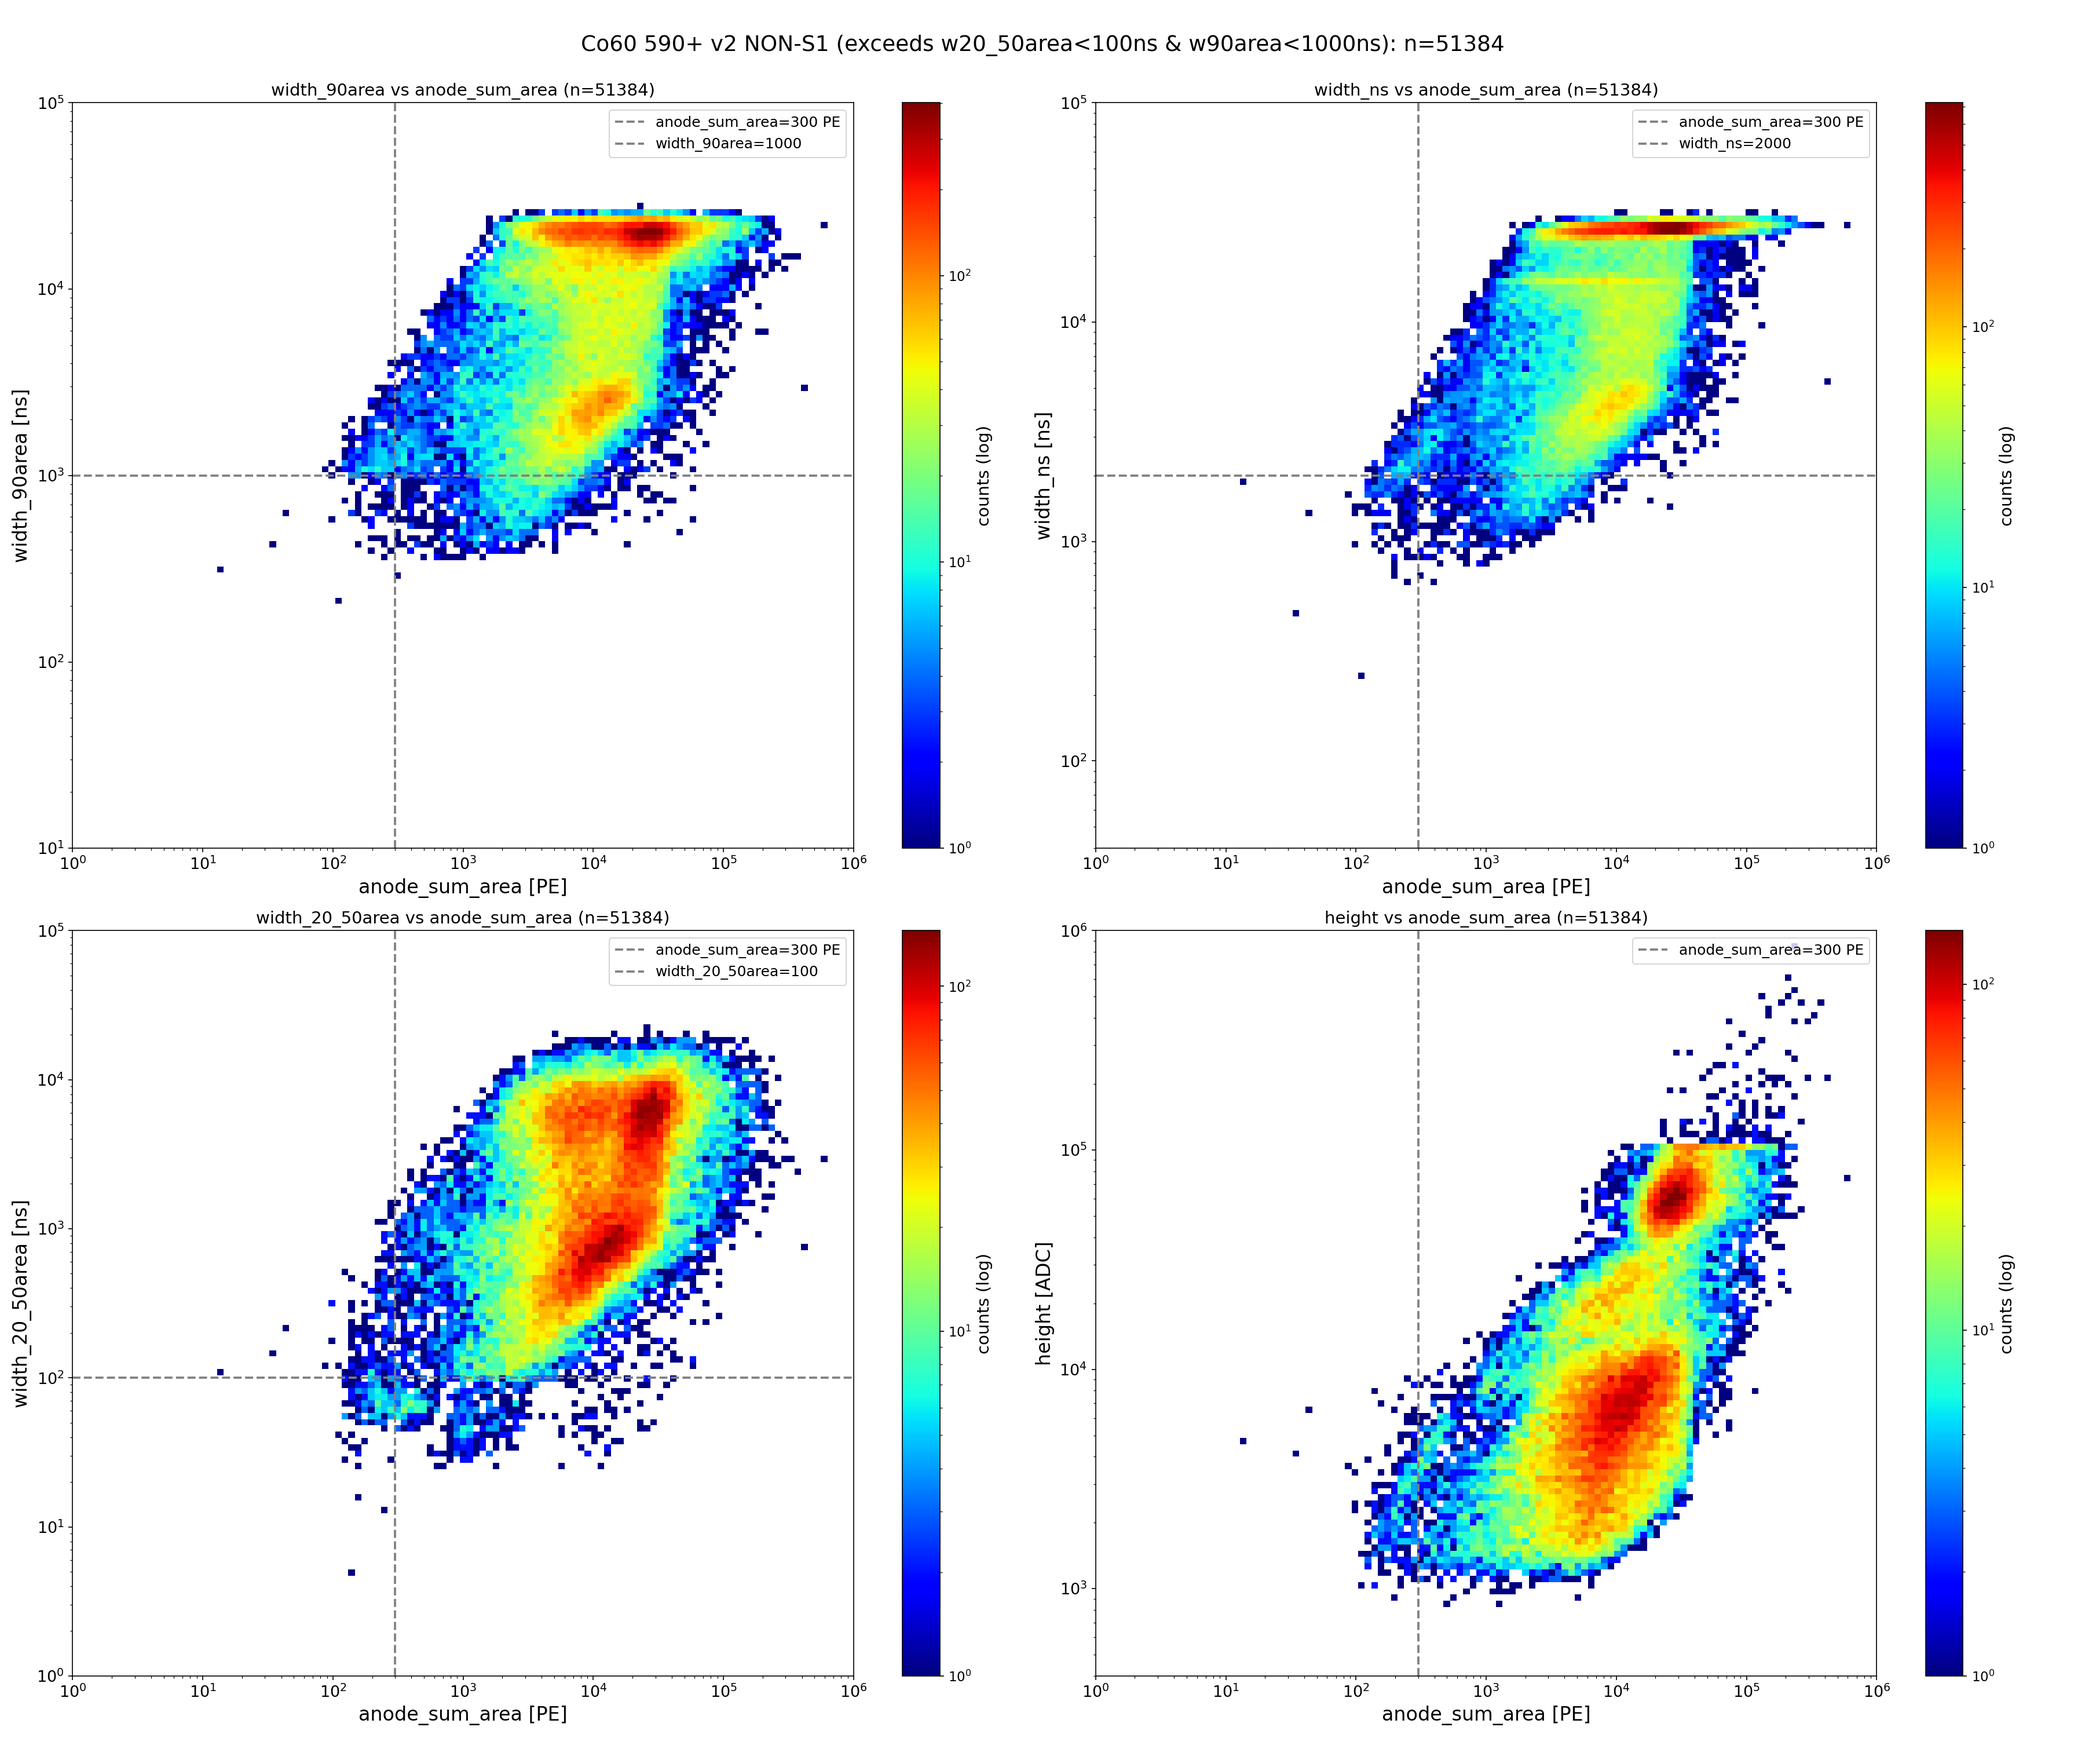
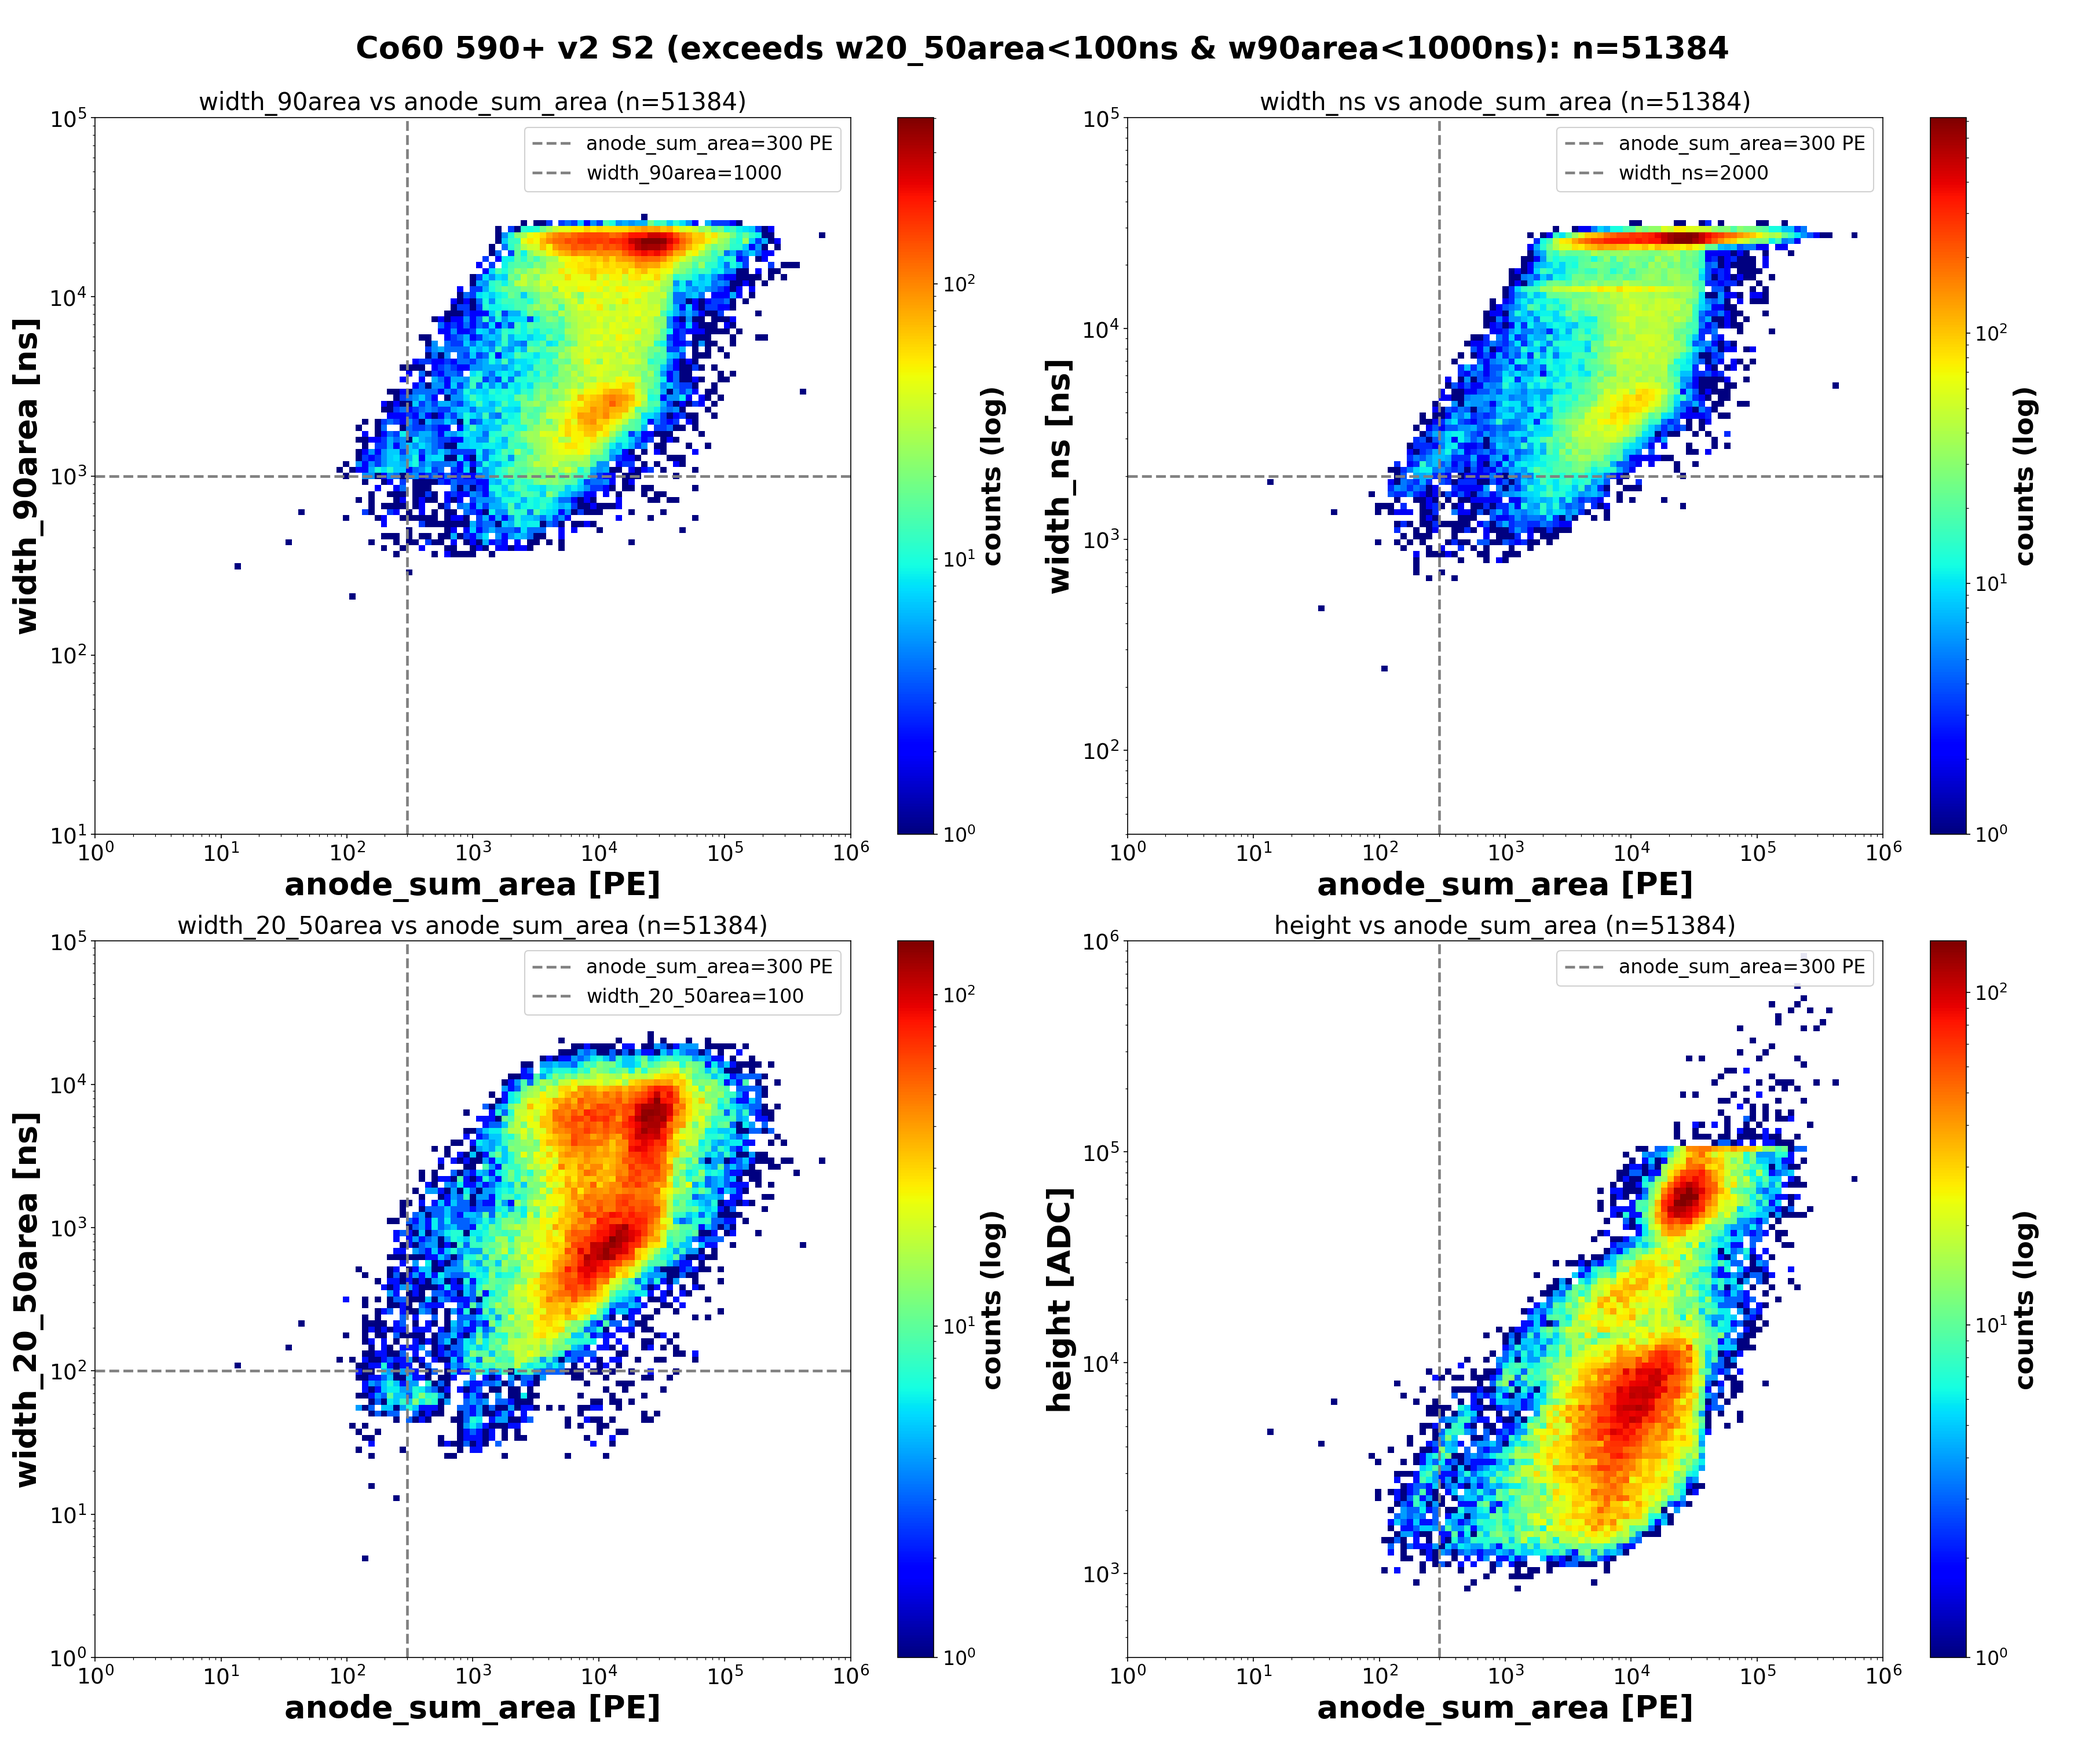
Enlarge axis labels (26pt bold) on all Co60 590+ v2 figures; unify figure regeneration script

diff --git a/scripts/plot_all_v2_figures.py b/scripts/plot_all_v2_figures.py
@@ -1,0 +1,116 @@
+#!/usr/bin/env python
+"""Regenerate every Co60 590+ v2 figure with larger, high-contrast axis labels.
+
+Outputs to docs/figures/ and /mnt/data/tmp/muon_analysis/co60_590/peak_level_v2/:
+  - co60_590_v2_2d_panels.png        (all peaks, 4 panels)
+  - co60_590_v2_s1_2d_panels.png     (S1 cut, 4 panels)
+  - co60_590_v2_nons1_2d_panels.png  (S2, 4 panels)
+  - w2050area_vs_anodesum_area_v2.png
+  - width_ns_vs_anodesum_area_v2.png
+"""
+import sys
+sys.path.insert(0, "/home/yjj/MuonDAS/src")
+import numpy as np
+import pandas as pd
+import matplotlib
+matplotlib.use("Agg")
+import matplotlib.pyplot as plt
+from matplotlib.colors import LogNorm
+
+plt.rcParams.update({
+    "axes.labelsize": 26,
+    "axes.labelweight": "bold",
+    "xtick.labelsize": 18,
+    "ytick.labelsize": 18,
+    "axes.titlesize": 20,
+    "legend.fontsize": 16,
+})
+
+CSV = "/mnt/data/tmp/muon_analysis/co60_590/peak_level_v2/co60_590_peak_level_v2_with_signal.csv"
+DOCS = "/home/yjj/MuonDAS/docs/figures"
+TMP = "/mnt/data/tmp/muon_analysis/co60_590/peak_level_v2"
+
+PANELS = [
+    ("width_90area", "width_90area [ns]", (10.0, 1e5), 1000.0),
+    ("width_ns", "width_ns [ns]", (40.0, 1e5), 2000.0),
+    ("width_20_50area", "width_20_50area [ns]", (1.0, 1e5), 100.0),
+    ("height", "height [ADC]", (400.0, 1e6), None),
+]
+
+
+def draw_panels(df, title, name):
+    fig, axes = plt.subplots(2, 2, figsize=(24, 20))
+    for ax, (col, ylab, ylim, yguide) in zip(axes.ravel(), PANELS):
+        v = df[(df.anode_sum_area > 0) & (df[col] > 0)]
+        hb = ax.hist2d(
+            v.anode_sum_area, v[col],
+            bins=[np.logspace(np.log10(1.0), np.log10(1e6), 120),
+                  np.logspace(np.log10(ylim[0]), np.log10(ylim[1]), 120)],
+            cmap="jet", cmin=1, norm=LogNorm())
+        ax.set_xscale("log")
+        ax.set_yscale("log")
+        ax.set_xlim(1.0, 1e6)
+        ax.set_ylim(*ylim)
+        ax.axvline(300, color="gray", ls="--", lw=2.2, label="anode_sum_area=300 PE")
+        if yguide is not None:
+            ax.axhline(yguide, color="gray", ls="--", lw=2.2, label=f"{col}={yguide:g}")
+        ax.set_xlabel("anode_sum_area [PE]")
+        ax.set_ylabel(ylab)
+        ax.set_title(f"{col} vs anode_sum_area (n={len(v)})")
+        ax.legend(loc="upper right", framealpha=0.9)
+        cb = fig.colorbar(hb[3], ax=ax)
+        cb.set_label("counts (log)", fontsize=22, fontweight="bold")
+        cb.ax.tick_params(labelsize=16)
+    fig.suptitle(title, fontsize=26, fontweight="bold")
+    fig.tight_layout(rect=(0, 0, 1, 0.98))
+    for out in (f"{DOCS}/{name}", f"{TMP}/{name}"):
+        fig.savefig(out, dpi=150)
+    plt.close(fig)
+    print("saved:", f"{DOCS}/{name}")
+
+
+def draw_single(df, col, ylab, ylim, yguide, title, name):
+    v = df[(df.anode_sum_area > 0) & (df[col] > 0)]
+    fig, ax = plt.subplots(figsize=(16, 12))
+    hb = ax.hist2d(
+        v.anode_sum_area, v[col],
+        bins=[np.logspace(np.log10(1.0), np.log10(1e6), 120),
+              np.logspace(np.log10(ylim[0]), np.log10(ylim[1]), 120)],
+        cmap="jet", cmin=1, norm=LogNorm())
+    ax.set_xscale("log")
+    ax.set_yscale("log")
+    ax.set_xlim(1.0, 1e6)
+    ax.set_ylim(*ylim)
+    ax.axvline(300, color="gray", ls="--", lw=2.4, label="anode_sum_area=300 PE")
+    if yguide is not None:
+        ax.axhline(yguide, color="gray", ls="--", lw=2.4, label=f"{col}={yguide:g}")
+    ax.set_xlabel("anode_sum_area [PE]")
+    ax.set_ylabel(ylab)
+    ax.set_title(title)
+    ax.legend(loc="upper right", framealpha=0.9)
+    cb = fig.colorbar(hb[3], ax=ax)
+    cb.set_label("counts (log)", fontsize=22, fontweight="bold")
+    cb.ax.tick_params(labelsize=16)
+    fig.tight_layout()
+    for out in (f"{DOCS}/{name}", f"{TMP}/{name}"):
+        fig.savefig(out, dpi=150)
+    plt.close(fig)
+    print("saved:", f"{DOCS}/{name}")
+
+
+df = pd.read_csv(CSV)
+s1 = df[(df.width_20_50area < 100) & (df.width_90area < 1000)]
+rest = df[~((df.width_20_50area < 100) & (df.width_90area < 1000))]
+
+draw_panels(df, "Co60 590+ v2 (new clustering + params): peak-level 2D panels",
+            "co60_590_v2_2d_panels.png")
+draw_panels(s1, f"Co60 590+ v2 S1 cut (w20_50area<100ns & w90area<1000ns): n={len(s1)}",
+            "co60_590_v2_s1_2d_panels.png")
+draw_panels(rest, f"Co60 590+ v2 S2 (exceeds w20_50area<100ns & w90area<1000ns): n={len(rest)}",
+            "co60_590_v2_nons1_2d_panels.png")
+draw_single(df, "width_20_50area", "width_20_50area [ns]", (1.0, 1e5), 100.0,
+            f"Co60 590+ v2: width_20_50area vs anode_sum_area (n={len(df)})",
+            "w2050area_vs_anodesum_area_v2.png")
+draw_single(df, "width_ns", "width_ns [ns]", (40.0, 1e5), 2000.0,
+            f"Co60 590+ v2: width_ns vs anode_sum_area (n={len(df)})",
+            "width_ns_vs_anodesum_area_v2.png")

diff --git a/scripts/diagnose_long_peaks.py b/scripts/diagnose_long_peaks.py
@@ -8,6 +8,15 @@ import numpy as np
 import matplotlib
 matplotlib.use("Agg")
 import matplotlib.pyplot as plt
+
+plt.rcParams.update({
+    "axes.labelsize": 24,
+    "axes.labelweight": "bold",
+    "xtick.labelsize": 17,
+    "ytick.labelsize": 17,
+    "axes.titlesize": 16,
+    "legend.fontsize": 15,
+})
 from muon_analysis.config import build_config
 from muon_analysis.io.runinfo import get_runinfo
 from muon_analysis.io.readers import read_data
@@ -62,8 +71,8 @@ for ax, (pk, pf) in zip(axes, picks):
                  f"S2w={pf.muon_s2_width_ns:.0f}ns width_ns={pf.width_ns:.0f} "
                  f"h={pf.height:.0f}", fontsize=9)
     ax.set_xlabel("time rel. to anode-sum start [us]")
-    ax.set_ylabel("ADC")
-    ax.legend(fontsize=7, ncol=5, loc="upper right")
+    ax.set_ylabel("anode_sum [ADC]")
+    ax.legend(ncol=5, loc="upper right")
 fig.tight_layout()
 out = "/mnt/data/tmp/muon_analysis/co60_590/peak_level_v2/long_peaks_diagnosis.png"
 fig.savefig(out, dpi=120)
